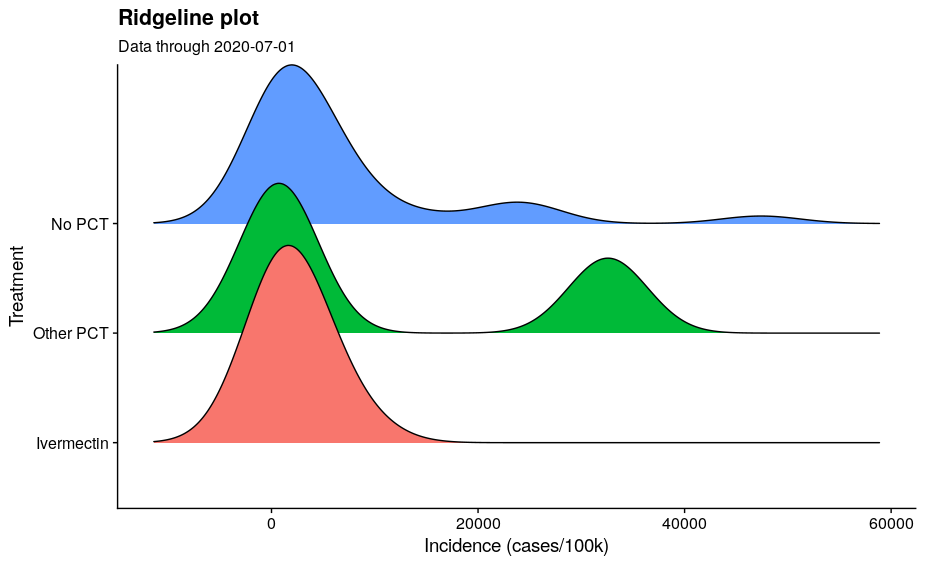
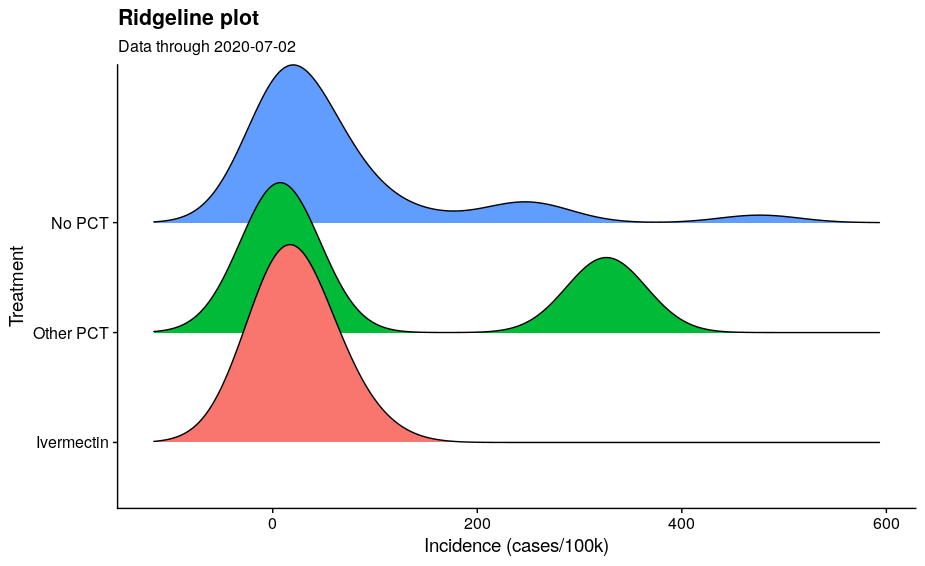
updated

diff --git a/code.md b/code.md
@@ -1,6 +1,6 @@
 Ivermectin exploration
 ================
-2020-07-01
+2020-07-02
 
 ``` r
 ## Load libraries
@@ -74,7 +74,7 @@ pd <- owid %>% left_join(africa,
 # Get cumulative incidence per 100k
 pd <- pd %>%
   filter(date == max(date)) %>%
-  mutate(ci = total_cases_per_million * 10)
+  mutate(ci = total_cases_per_million / 10)
 
 # Relevel
 pd$Treatment <- factor(pd$key,
@@ -87,11 +87,13 @@ pd$Treatment <- factor(pd$key,
 ggplot(data = pd,
        aes(x = Treatment,
            y = ci)) +
-  geom_boxplot() +
+  geom_boxplot(outlier.shape = 1) +
   cowplot::theme_cowplot() +
   labs(y = 'Incidence (cases/100k)',
        title = 'Plot reproduction: Africa only',
-       subtitle = paste0('Data through ', max(pd$date)))
+       subtitle = paste0('Data through ', max(pd$date))) +
+  ylim(0, 670) +
+  theme(panel.border = element_rect(colour = "black", fill=NA, size=1))
 ```
 
 ![](figures/unnamed-chunk-4-1.png)<!-- -->
@@ -148,7 +150,7 @@ ggplot(data = pd,
   theme(legend.position = 'none') +
   geom_text_repel(aes(label = location),
                   alpha = 0.5,
-                  size = 4)
+                  size = 3)
 ```
 
 ![](figures/unnamed-chunk-7-1.png)<!-- -->
@@ -177,7 +179,7 @@ ggplot(data = pd,
   theme(legend.position = 'none') +
   geom_text_repel(aes(label = location),
                   alpha = 0.5,
-                  size = 4) +
+                  size = 3) +
   scale_y_log10()
 ```
 
@@ -186,6 +188,7 @@ ggplot(data = pd,
 Another way to look at population…
 
 ``` r
+log_seq <-  c(100000, 1000000, 10000000, 100000000)
 ggplot(data = pd,
        aes(x = population,
            y = ci,
@@ -193,13 +196,15 @@ ggplot(data = pd,
   geom_point() +
     cowplot::theme_cowplot() +
   labs(y = 'Incidence (cases/100k)',
+       x = 'Population',
        title = 'Population and cumulative incidence on log scale',
        subtitle = paste0('Data through ', max(pd$date))) +
+  scale_x_log10(breaks = log_seq,
+                labels = scales::comma(log_seq)) +
   scale_y_log10() +
-  scale_x_log10() +
     geom_text_repel(aes(label = location),
                   alpha = 0.5,
-                  size = 4)
+                  size = 4) 
 ```
 
 ![](figures/unnamed-chunk-9-1.png)<!-- -->
@@ -215,9 +220,9 @@ broom::tidy(summary(fit))
     # A tibble: 3 x 5
       term               estimate std.error statistic p.value
       <chr>                 <dbl>     <dbl>     <dbl>   <dbl>
-    1 (Intercept)           2126.     1811.      1.17  0.246 
-    2 TreatmentOther PCT    9214.     5330.      1.73  0.0897
-    3 TreatmentNo PCT       4423.     2407.      1.84  0.0717
+    1 (Intercept)            21.5      18.4      1.17  0.246 
+    2 TreatmentOther PCT     92.1      54.0      1.70  0.0941
+    3 TreatmentNo PCT        45.8      24.4      1.88  0.0660
 
 In the above, the reference class is ivermectin. Cumulative invidence is
 greater in the other two groups, p \> 0.05.
